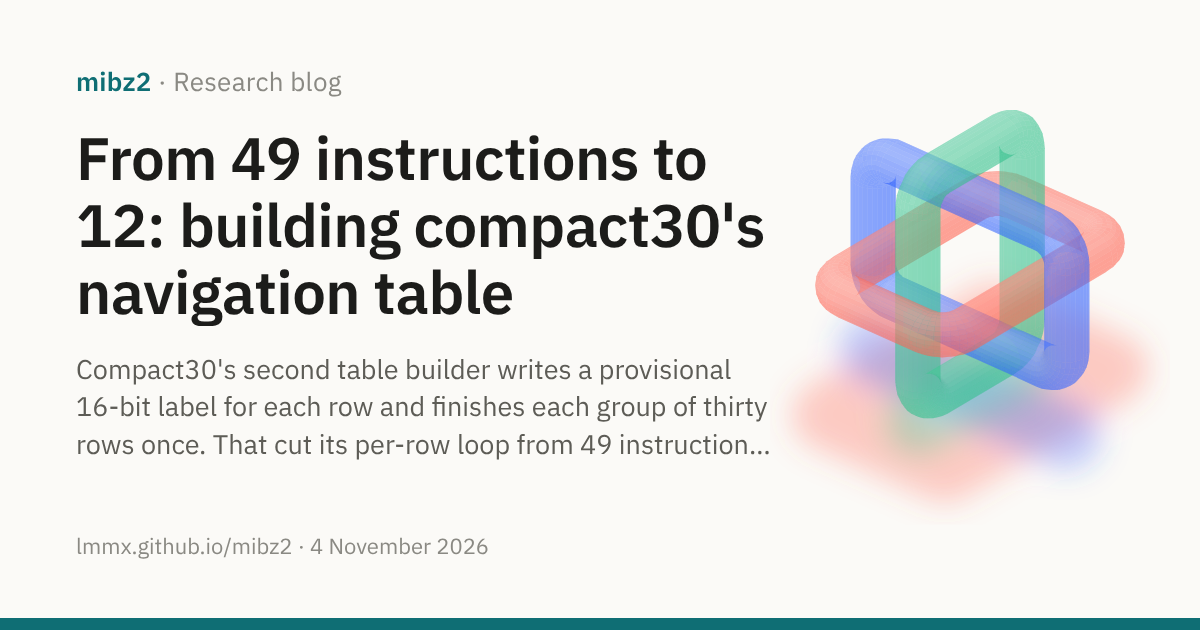
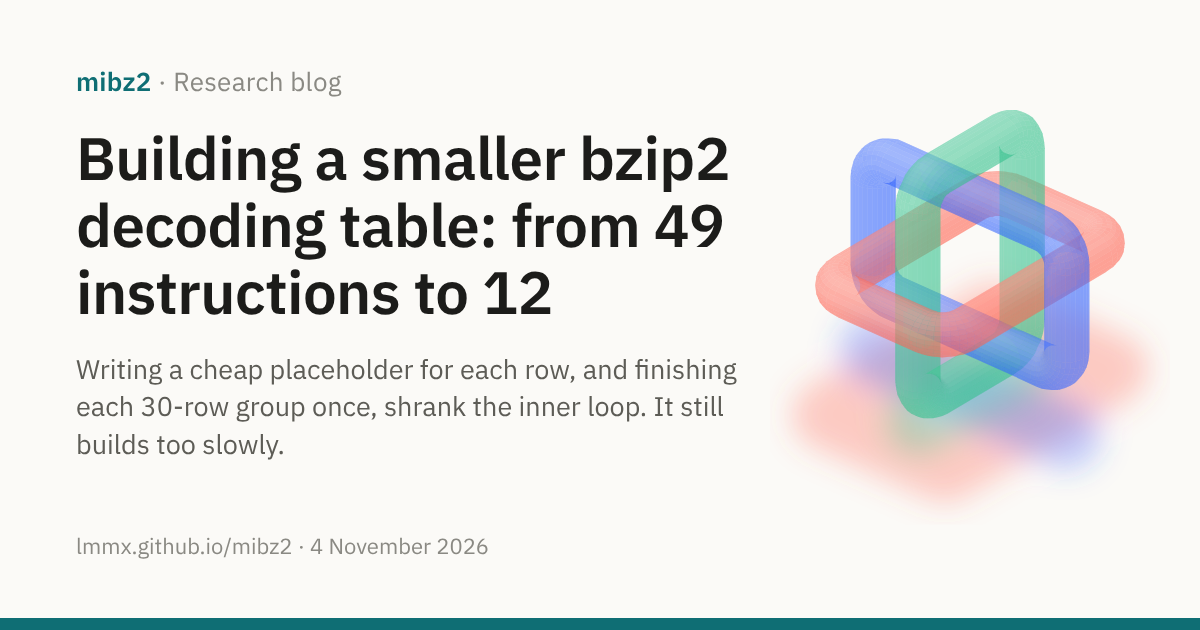
docs(blog): plainer title and a shorter dek for the table-builder post, and say what compact30 means
The title named the codename; it is now "Building a smaller bzip2 decoding table: from 49 instructions to 12", and the dek fits on the social card. The first mention of compact30 in each page says it is named for the thirty rows in each 64-byte record.

Changed region(s): [[0.0617, 0.2111, 0.6475, 0.5429], [0.0617, 0.573, 0.6475, 0.7238]]

diff --git a/docs/site/blog/index.md b/docs/site/blog/index.md
@@ -8,7 +8,7 @@ What mibz2's experiments are finding, and where they go next. The evidence behin
 post is in the [journals](../background/journals.md) and the pull requests they link.
 
 <div class="post-list">
-<a class="post-card" href="2026-11-04-compact30-constructor.md"><img src="../assets/social/blog-2026-11-04-compact30-constructor.png" alt="" loading="lazy"><span class="post-card-text"><span class="post-card-date">4 November 2026 · Research in progress</span><span class="post-card-title">From 49 instructions to 12: building compact30's navigation table</span><span class="post-card-dek">Compact30's second table builder writes a provisional 16-bit label for each row and finishes each group of thirty rows once. That cut its per-row loop from 49 instructions to 12, but with four workers it still builds too slowly.</span></span></a>
+<a class="post-card" href="2026-11-04-compact30-constructor.md"><img src="../assets/social/blog-2026-11-04-compact30-constructor.png" alt="" loading="lazy"><span class="post-card-text"><span class="post-card-date">4 November 2026 · Research in progress</span><span class="post-card-title">Building a smaller bzip2 decoding table: from 49 instructions to 12</span><span class="post-card-dek">Writing a cheap placeholder for each row, and finishing each 30-row group once, shrank the inner loop. It still builds too slowly.</span></span></a>
 <a class="post-card" href="2026-11-02-revisiting-space-time-tradeoff-bwt-inversion.md"><img src="../assets/social/blog-2026-11-02-revisiting-space-time-tradeoff-bwt-inversion.png" alt="" loading="lazy"><span class="post-card-text"><span class="post-card-date">2 November 2026 · Research result</span><span class="post-card-title">Revisiting the space–time tradeoff in BWT inversion</span><span class="post-card-dek">A packed table saved memory but cost too much to read. A cheaper compact lookup gives the first positive traversal result.</span></span></a>
 <a class="post-card" href="2026-11-02-memory-level-parallelism.md"><img src="../assets/social/blog-2026-11-02-memory-level-parallelism.png" alt="" loading="lazy"><span class="post-card-text"><span class="post-card-date">2 November 2026 · Research synthesis</span><span class="post-card-title">Memory-level parallelism in mibz2: instructions, overlap and evidence</span><span class="post-card-dek">Interleaving pointer chases lets memory waits overlap. The speedup shows that this pays, but not what limits it: a 2022 exchange about Daniel Lemire's benchmark, read against mibz2's inverse-BWT walk.</span></span></a>
 <a class="post-card" href="2026-11-01-inverse-bwt-memory-interference.md"><img src="../assets/social/blog-2026-11-01-inverse-bwt-memory-interference.png" alt="" loading="lazy"><span class="post-card-text"><span class="post-card-date">1 November 2026 · Research in progress</span><span class="post-card-title">Investigating inverse-BWT memory interference in mibz2</span><span class="post-card-dek">Four workers finish decompression sooner, but together spend 32% more processor time per byte. We're testing whether competition for shared memory is responsible.</span></span></a>

diff --git a/docs/site/blog/2026-11-04-compact30-constructor.md b/docs/site/blog/2026-11-04-compact30-constructor.md
@@ -1,7 +1,7 @@
 ---
-title: "From 49 instructions to 12: building compact30's navigation table"
+title: "Building a smaller bzip2 decoding table: from 49 instructions to 12"
 image: assets/social/blog-2026-11-04-compact30-constructor.png
-description: "Compact30's second table builder writes a provisional 16-bit label for each row and finishes each group of thirty rows once. That cut its per-row loop from 49 instructions to 12, but with four workers it still builds too slowly."
+description: "Writing a cheap placeholder for each row, and finishing each 30-row group once, shrank the inner loop. It still builds too slowly."
 ---
 
 <div class="post-hero" markdown>
@@ -11,11 +11,10 @@ description: "Compact30's second table builder writes a provisional 16-bit label
 [mibz2 · Research blog](index.md)
 {: .post-kicker }
 
-# From 49 instructions to 12: building compact30's navigation table
+# Building a smaller bzip2 decoding table: from 49 instructions to 12
 
-Compact30's second table builder writes a provisional 16-bit label for each row and finishes
-each group of thirty rows once. That cut its per-row loop from 49 instructions to 12, but with
-four workers it still builds too slowly.
+Writing a cheap placeholder for each row, and finishing each 30-row group once, shrank the
+inner loop. It still builds too slowly.
 {: .post-dek }
 
 4 November 2026 · 12 min read · [Research in progress](#8-fewer-instructions-not-yet-a-cheaper-build)
@@ -28,7 +27,8 @@ four workers it still builds too slowly.
 </div>
 
 [The last post](2026-11-02-revisiting-space-time-tradeoff-bwt-inversion.md) ended with a
-smaller navigation table, compact30, beating mibz2's conventional one when four workers walk
+smaller navigation table, compact30 (named for its thirty rows to each 64-byte record),
+beating mibz2's conventional one when four workers walk
 at once, and a warning: [the table still has to be
 built](2026-11-02-revisiting-space-time-tradeoff-bwt-inversion.md#9-the-table-still-has-to-be-built).
 The records in that comparison came from a reference builder that computed every row's

diff --git a/docs/site/blog/2026-11-04-compact30-constructor-notes.md b/docs/site/blog/2026-11-04-compact30-constructor-notes.md
@@ -1,11 +1,11 @@
 ---
-title: "Technical appendix: the ideas behind compact30's table builder"
-description: "Technical appendix to the compact30 table-builder post: the BWT's navigation table from first principles, stable counting sort, compact30's row labels, records and RAW groups, epochs and snapshots, finishing a group, RAW canonicalisation, and why fewer instructions needn't mean less time."
+title: "Technical appendix: the ideas behind building a smaller bzip2 decoding table"
+description: "Technical appendix to the post on building a smaller bzip2 decoding table: the BWT's navigation table from first principles, stable counting sort, compact30's row labels, records and RAW groups, epochs and snapshots, finishing a group, RAW canonicalisation, and why fewer instructions needn't mean less time."
 ---
 
-← [From 49 instructions to 12](2026-11-04-compact30-constructor.md)
+← [Building a smaller bzip2 decoding table](2026-11-04-compact30-constructor.md)
 
-# Technical appendix: the ideas behind compact30's table builder
+# Technical appendix: the ideas behind building a smaller bzip2 decoding table
 
 [The main post](2026-11-04-compact30-constructor.md) moves quickly through ideas that come
 from several fields at once: the Burrows–Wheeler transform, sorting, compact integer formats
@@ -34,7 +34,8 @@ losing or repeating any.
 
 Undoing the Burrows–Wheeler transform comes down to following a permutation like this one,
 emitting a byte at each step. mibz2's conventional table stores one 4-byte entry per row.
-Compact30 stores the same permutation in less memory. The catch, and the subject of the main
+Compact30, named for the thirty rows it packs into each 64-byte record, stores the same
+permutation in less memory. The catch, and the subject of the main
 post, is that the compact table has to be built first, and building it must not cost more
 than it saves.
 
